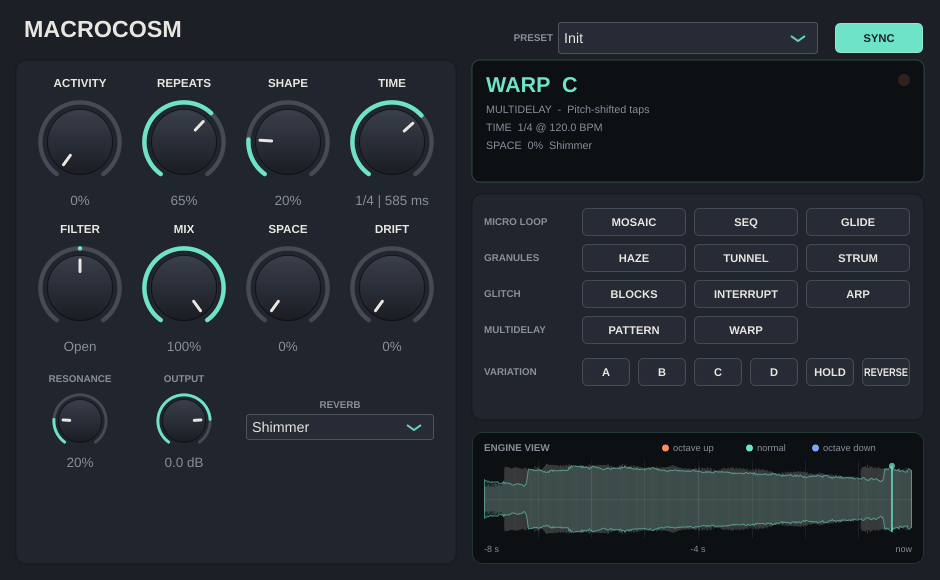
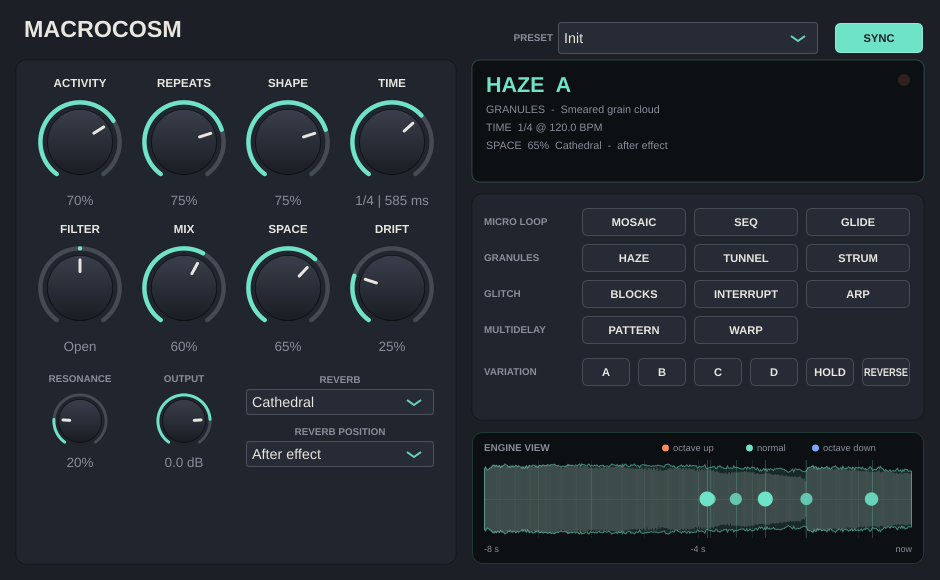
Add a Reverb Position selector: after, before, or effect only
SPACE could only sit after the mix. A new Reverb Position parameter
places it after the effect (default, unchanged), before it (the engine
works on the reverberated guitar, for dense, smooth pads), or on the
effect only (the dry guitar stays dry).

Two presets show the new positions: Cloud Choir (Haze from a Cathedral
wash) and Clean Halo (Warp C with a Shimmer halo, dry left dry). The top
display shows the position, and the screenshot is updated.

Tests: Effect only at Mix 0% leaves the dry untouched with Space at 80%,
and every position stays finite and bounded.

Claude-Session: https://claude.ai/code/session_01UYkrLVZjx8ufDwy96hkhs7

diff --git a/Source/dsp/MicrocosmDsp.h b/Source/dsp/MicrocosmDsp.h
@@ -11,9 +11,21 @@ namespace mc
 //   in ─┬──────────────────────────────── dry ──┐
 //       │                                        ├─ MIX ─ SPACE ─ OUTPUT ─ out
 //       └─ ENGINE (11 algos) ─ DRIFT ─ FILTER ─ wet ┘
+//
+// SPACE (the reverb) can sit after the mix (default), before the effect (the
+// engine then works on the reverberated signal), or on the effect only (the
+// dry guitar stays dry).
 class MicrocosmDsp
 {
 public:
+    enum ReverbPosition { ReverbAfter = 0, ReverbBefore, ReverbEffectOnly, NumReverbPositions };
+
+    static const char* reverbPositionName (int p)
+    {
+        static const char* names[NumReverbPositions] = { "After effect", "Before effect", "Effect only" };
+        return names[std::min (std::max (p, 0), NumReverbPositions - 1)];
+    }
+
     struct Global
     {
         float filter = 0.5f;     // 0 = dark LP, 0.5 = open, 1 = thin HP
@@ -21,6 +33,7 @@ public:
         float mix = 0.5f;        // 0 dry .. 1 wet
         float space = 0.25f;     // reverb amount
         int reverbMode = Reverb::LargeHall;
+        int reverbPosition = ReverbAfter;
         float drift = 0.0f;      // tape wow/flutter on the effect signal
         float outputGain = 1.0f; // linear
     };
@@ -91,6 +104,12 @@ private:
         std::copy (L, L + n, dl);
         std::copy (R, R + n, dr);
 
+        // Reverb before the effect: both the dry path and the engine get the
+        // reverberated guitar.
+        if (g.reverbPosition == ReverbBefore)
+            for (int i = 0; i < n; ++i)
+                applySpace (dl[i], dr[i]);
+
         // 1. Effect engine
         engine.process (dl, dr, wetL.data(), wetR.data(), duck.data(), n);
 
@@ -121,6 +140,9 @@ private:
                 wr = svf[1].process (wr, type);
             }
 
+            if (g.reverbPosition == ReverbEffectOnly)
+                applySpace (wl, wr);
+
             const float m = mixS.process (g.mix);
             const float wetGain = std::min (1.0f, 2.0f * m);
             // INTERRUPT mutes the dry while its bursts play, but only as far as
@@ -129,20 +151,28 @@ private:
             float ol = dl[i] * dryGain + wl * wetGain;
             float orr = dr[i] * dryGain + wr * wetGain;
 
-            const float s = spaceS.process (g.space);
-            if (s > 0.0005f || reverbTail > 0)
-            {
-                float rl, rr;
-                reverb.process (ol * s, orr * s, rl, rr);
-                const float dryKeep = 1.0f - 0.3f * s;
-                ol = ol * dryKeep + rl * 1.2f;
-                orr = orr * dryKeep + rr * 1.2f;
-                reverbTail = s > 0.0005f ? (int) (20.0f * sr) : reverbTail - 1;
-            }
+            if (g.reverbPosition == ReverbAfter)
+                applySpace (ol, orr);
 
             const float og = outS.process (g.outputGain);
             L[i] = sanitize (ol * og);
             R[i] = sanitize (orr * og);
+        }
+    }
+
+    // SPACE: blends the reverb into the signal in place (one call per sample,
+    // at whichever point of the chain the reverb sits).
+    void applySpace (float& l, float& r)
+    {
+        const float s = spaceS.process (g.space);
+        if (s > 0.0005f || reverbTail > 0)
+        {
+            float rl, rr;
+            reverb.process (l * s, r * s, rl, rr);
+            const float dryKeep = 1.0f - 0.3f * s;
+            l = l * dryKeep + rl * 1.2f;
+            r = r * dryKeep + rr * 1.2f;
+            reverbTail = s > 0.0005f ? (int) (20.0f * sr) : reverbTail - 1;
         }
     }
 

diff --git a/tests/DspTest.cpp b/tests/DspTest.cpp
@@ -281,6 +281,7 @@ int main()
             g.space = pr.space;
             g.reverbMode = pr.reverbMode;
             g.drift = pr.drift;
+            g.reverbPosition = pr.reverbPosition;
             dsp.setGlobal (g);
             Engine::Params p;
             p.algo = pr.algo;
@@ -505,6 +506,42 @@ int main()
         {
             ++failures;
             std::printf ("mix 0%% %s: dry changed by %.2f dB  <-- FAIL\n", Engine::algoName (a), diffDb);
+        }
+    }
+
+    // Reverb position: "Effect only" must leave the dry untouched at Mix 0%
+    // even with Space up, and every position must stay finite and bounded.
+    for (int pos = 0; pos < MicrocosmDsp::NumReverbPositions; ++pos)
+    {
+        for (float mixV : { 0.0f, 0.5f, 1.0f })
+        {
+            MicrocosmDsp dsp;
+            dsp.prepare (kSr, kBlock);
+            MicrocosmDsp::Global g;
+            g.mix = mixV;
+            g.space = 0.8f;
+            g.reverbMode = Reverb::Shimmer;
+            g.reverbPosition = pos;
+            dsp.setGlobal (g);
+            Engine::Params p;
+            p.algo = Engine::Haze;
+            dsp.setEngineParams (p);
+            std::vector<float> l (inL.begin(), inL.begin() + (int) kSr * 4), r (inR.begin(), inR.begin() + (int) kSr * 4);
+            const auto st = run (dsp, l, r);
+            bool ok = st.finite && st.peak < 3.9f && st.rms > 0.005f;
+            if (pos == MicrocosmDsp::ReverbEffectOnly && mixV == 0.0f)
+            {
+                double eIn = 0;
+                for (int k = 0; k < (int) kSr * 4; ++k)
+                    eIn += (double) inL[(size_t) k] * inL[(size_t) k];
+                ok = ok && std::abs (20.0f * std::log10 (st.rms / (float) std::sqrt (eIn / (kSr * 4)))) < 0.1f;
+            }
+            if (! ok)
+            {
+                ++failures;
+                std::printf ("reverb position %s, mix %.0f%%: rms=%.4f peak=%.2f  <-- FAIL\n",
+                             MicrocosmDsp::reverbPositionName (pos), mixV * 100.0f, st.rms, st.peak);
+            }
         }
     }
 

diff --git a/Source/PluginEditor.cpp b/Source/PluginEditor.cpp
@@ -107,6 +107,7 @@ MicrocosmEditor::MicrocosmEditor (MicrocosmProcessor& p) : AudioProcessorEditor 
         addAndMakeVisible (label);
     };
     setupCombo (reverbMode, reverbLabel, ParamIDs::reverbMode, "REVERB", reverbAtt);
+    setupCombo (reverbPosition, reverbPosLabel, ParamIDs::reverbPos, "REVERB POSITION", reverbPosAtt);
 
     setupToggle (syncBtn, syncAtt, ParamIDs::sync, "SYNC");
 
@@ -280,7 +281,10 @@ void MicrocosmEditor::paint (Graphics& g)
     // reverb readout
     const int mode = (int) proc.apvts.getRawParameterValue (ParamIDs::reverbMode)->load();
     const int spacePct = roundToInt (proc.apvts.getRawParameterValue (ParamIDs::space)->load() * 100.0f);
-    g.drawText ("SPACE  " + String (spacePct) + "%  " + mc::Reverb::modeName (mode), inner.removeFromTop (18),
+    const int position = (int) proc.apvts.getRawParameterValue (ParamIDs::reverbPos)->load();
+    g.drawText ("SPACE  " + String (spacePct) + "%  " + mc::Reverb::modeName (mode) + "  -  "
+                    + String (mc::MicrocosmDsp::reverbPositionName (position)).toLowerCase(),
+                inner.removeFromTop (18),
                 Justification::centredLeft);
 
     // onset LED
@@ -330,9 +334,12 @@ void MicrocosmEditor::resized()
     auto row3 = l.removeFromTop (104);
     for (auto* k : { &resonance, &output })
         layoutKnob (*k, row3.removeFromLeft (kw).reduced (12, 2));
-    auto reverbBox = row3.reduced (10, 0).withSizeKeepingCentre (row3.getWidth() - 20, 48);
+    auto reverbBox = row3.reduced (10, 0).withSizeKeepingCentre (row3.getWidth() - 20, 98);
     reverbLabel.setBounds (reverbBox.removeFromTop (18));
     reverbMode.setBounds (reverbBox.removeFromTop (26));
+    reverbBox.removeFromTop (8);
+    reverbPosLabel.setBounds (reverbBox.removeFromTop (18));
+    reverbPosition.setBounds (reverbBox.removeFromTop (26));
 
     // ---- right: display ----
     displayArea = right.removeFromTop (122);

diff --git a/Source/Presets.h b/Source/Presets.h
@@ -1,7 +1,6 @@
 #pragma once
 
-#include "dsp/Engine.h"
-#include "dsp/Reverb.h"
+#include "dsp/MicrocosmDsp.h"
 
 // Factory presets: cinematic starting points for guitar. Each sets the
 // effect and sound-shaping controls; the looper is left alone.
@@ -17,6 +16,7 @@ struct Preset
     int reverbMode;
     float drift;
     bool reverse;
+    int reverbPosition = mc::MicrocosmDsp::ReverbAfter;
 };
 
 // Filter knob positions for a given readout ("HP 35%" -> hp (0.35f)).
@@ -26,6 +26,8 @@ constexpr float open = 0.5f;
 
 using E = mc::Engine;
 using R = mc::Reverb;
+constexpr int before = mc::MicrocosmDsp::ReverbBefore;
+constexpr int effectOnly = mc::MicrocosmDsp::ReverbEffectOnly;
 
 inline const Preset list[] = {
     // name                 algo         var  act    rep    shape  time filter     res    mix    space  reverb        drift  rev
@@ -41,6 +43,10 @@ inline const Preset list[] = {
     { "Crystal Arp",        E::Arp,       1, 0.50f, 0.60f, 0.40f, 6, hp (0.30f), 0.15f, 0.45f, 0.60f, R::Shimmer,   0.10f, false },
     { "Distant Signal",     E::Blocks,    2, 0.50f, 0.50f, 0.70f, 8, lp (0.25f), 0.30f, 0.50f, 0.70f, R::Ambient,   0.50f, false },
     { "Infinite Pad",       E::Tunnel,    0, 0.60f, 1.00f, 1.00f, 9, open,      0.10f, 0.70f, 0.90f, R::Shimmer,   0.30f, false },
+    // Reverb before the effect: grains drawn from a reverb wash.
+    { "Cloud Choir",        E::Haze,      0, 0.70f, 0.75f, 0.75f, 6, lp (0.10f), 0.10f, 0.70f, 0.60f, R::Cathedral, 0.25f, false, before },
+    // Reverb on the effect only: dry guitar stays clear in front of a shimmer halo.
+    { "Clean Halo",         E::Warp,      2, 0.00f, 0.60f, 0.60f, 9, hp (0.35f), 0.15f, 0.50f, 0.85f, R::Shimmer,   0.15f, false, effectOnly },
 };
 
 inline constexpr int count = (int) (sizeof (list) / sizeof (list[0]));

diff --git a/Source/PluginProcessor.cpp b/Source/PluginProcessor.cpp
@@ -12,7 +12,8 @@ MicrocosmProcessor::MicrocosmProcessor()
     raw = { p (ParamIDs::algo), p (ParamIDs::variation), p (ParamIDs::activity), p (ParamIDs::repeats),
             p (ParamIDs::shape), p (ParamIDs::time), p (ParamIDs::sync), p (ParamIDs::filter),
             p (ParamIDs::resonance), p (ParamIDs::mix), p (ParamIDs::space), p (ParamIDs::reverbMode),
-            p (ParamIDs::hold), p (ParamIDs::fxReverse), p (ParamIDs::output), p (ParamIDs::drift) };
+            p (ParamIDs::hold), p (ParamIDs::fxReverse), p (ParamIDs::output), p (ParamIDs::drift),
+            p (ParamIDs::reverbPos) };
 }
 
 bool MicrocosmProcessor::isBusesLayoutSupported (const BusesLayout& layouts) const
@@ -174,6 +175,7 @@ void MicrocosmProcessor::processBlock (juce::AudioBuffer<float>& buffer, juce::M
     g.mix = raw.mix->load();
     g.space = raw.space->load();
     g.reverbMode = (int) raw.reverbMode->load();
+    g.reverbPosition = (int) raw.reverbPos->load();
     g.drift = raw.drift->load();
     g.outputGain = juce::Decibels::decibelsToGain (raw.output->load());
     dsp.setGlobal (g);
@@ -244,6 +246,7 @@ void MicrocosmProcessor::setCurrentProgram (int index)
     set (ParamIDs::mix, pr.mix);
     set (ParamIDs::space, pr.space);
     set (ParamIDs::reverbMode, (float) pr.reverbMode);
+    set (ParamIDs::reverbPos, (float) pr.reverbPosition);
     set (ParamIDs::drift, pr.drift);
     set (ParamIDs::fxReverse, pr.reverse ? 1.0f : 0.0f);
     set (ParamIDs::hold, 0.0f);

diff --git a/Source/Parameters.h b/Source/Parameters.h
@@ -2,7 +2,7 @@
 
 #include <juce_audio_processors/juce_audio_processors.h>
 #include "dsp/Engine.h"
-#include "dsp/Reverb.h"
+#include "dsp/MicrocosmDsp.h"
 
 namespace ParamIDs
 {
@@ -22,6 +22,7 @@ inline constexpr const char* hold         = "hold";
 inline constexpr const char* fxReverse    = "fxReverse";
 inline constexpr const char* output       = "output";
 inline constexpr const char* drift        = "drift";
+inline constexpr const char* reverbPos    = "reverbPosition";
 } // namespace ParamIDs
 
 namespace TimeMapping
@@ -100,6 +101,11 @@ inline juce::AudioProcessorValueTreeState::ParameterLayout createParameterLayout
     for (int i = 0; i < mc::Reverb::NumModes; ++i)
         modes.add (mc::Reverb::modeName (i));
     layout.add (std::make_unique<AudioParameterChoice> (ParameterID { ParamIDs::reverbMode, 1 }, "Reverb Mode", modes, 2));
+
+    StringArray positions;
+    for (int i = 0; i < mc::MicrocosmDsp::NumReverbPositions; ++i)
+        positions.add (mc::MicrocosmDsp::reverbPositionName (i));
+    layout.add (std::make_unique<AudioParameterChoice> (ParameterID { ParamIDs::reverbPos, 1 }, "Reverb Position", positions, 0));
 
     layout.add (std::make_unique<AudioParameterBool> (ParameterID { ParamIDs::hold, 1 }, "Hold", false));
     layout.add (std::make_unique<AudioParameterBool> (ParameterID { ParamIDs::fxReverse, 1 }, "FX Reverse", false));

diff --git a/Source/PluginEditor.h b/Source/PluginEditor.h
@@ -73,9 +73,9 @@ private:
     juce::ComboBox presetBox;
     juce::Label presetLabel;
 
-    juce::ComboBox reverbMode;
-    juce::Label reverbLabel;
-    std::unique_ptr<ComboAttachment> reverbAtt;
+    juce::ComboBox reverbMode, reverbPosition;
+    juce::Label reverbLabel, reverbPosLabel;
+    std::unique_ptr<ComboAttachment> reverbAtt, reverbPosAtt;
 
     juce::TextButton syncBtn, holdBtn, reverseBtn;
     std::unique_ptr<ButtonAttachment> syncAtt, holdAtt, reverseAtt;

diff --git a/Source/PluginProcessor.h b/Source/PluginProcessor.h
@@ -84,7 +84,7 @@ private:
         std::atomic<float>* filter; std::atomic<float>* resonance; std::atomic<float>* mix;
         std::atomic<float>* space; std::atomic<float>* reverbMode;
         std::atomic<float>* hold; std::atomic<float>* fxReverse; std::atomic<float>* output;
-        std::atomic<float>* drift;
+        std::atomic<float>* drift; std::atomic<float>* reverbPos;
     } raw {};
 
     JUCE_DECLARE_NON_COPYABLE_WITH_LEAK_DETECTOR (MicrocosmProcessor)

diff --git a/README.md b/README.md
@@ -58,6 +58,7 @@ Strum, Arp and Tunnel react to note onsets in your playing. A detector picks up 
 | **Filter** | Centre is open. Left is a low-pass, right is a high-pass. **Resonance** sets the peak. Applies to the effect only. |
 | **Mix** | Dry/wet. At the centre both are at full level, as on the pedal. |
 | **Space** | Reverb amount. **Reverb** mode: Bright Room, Dark Medium, Large Hall, Ambient, plus **Shimmer** (octave-up pitch shifting inside the reverb, so the tail keeps rising) and **Cathedral** (huge and long). |
+| **Reverb Position** | Where Space sits: **After effect** (guitar and effect share one space), **Before effect** (the effect works on the reverberated guitar, giving dense, smooth pads), or **Effect only** (your dry guitar stays dry and clear while the textures sit in the space). |
 | **Drift** | Tape-style wow, flutter and slow pitch wander on the effect, slightly different per side. Around 15–40% gives gentle movement; higher gives lo-fi warble. |
 | **Hold** | Freezes the audio the effect is working on, so it keeps generating from what you just played while you play over it. In the delays it becomes an infinite repeat. |
 | **Reverse** | Plays every loop, grain and tap backwards. |
@@ -67,7 +68,7 @@ Strum, Arp and Tunnel react to note onsets in your playing. A detector picks up 
 
 Pick these from the **Preset** menu at the top of the plugin, or from Live's program list. They're cinematic starting points for guitar:
 Shimmer Cathedral, Frozen Swell, Reverse Bloom, Granular Choir, Tape Memory, Octave Clouds, Rising Tide, Ghost Echoes,
-Crystal Arp, Distant Signal and Infinite Pad. Choosing one sets the effect and sound controls.
+Crystal Arp, Distant Signal, Infinite Pad, Cloud Choir (reverb before the effect) and Clean Halo (reverb on the effect only). Choosing one sets the effect and sound controls.
 
 ### Sound quality notes
 

diff --git a/docs/RELEASE_NOTES.md b/docs/RELEASE_NOTES.md
@@ -21,10 +21,11 @@ Macrocosm is a granular, micro-loop, glitch and multidelay effect, inspired by t
   - Multidelay: Pattern, Warp
 - **Main controls:** Activity, Repeats and Shape, plus Time, which follows Live's tempo or can run free.
 - **Filter, Mix and Space**, with six reverbs: Bright Room, Dark Medium, Large Hall, Ambient, **Shimmer** and **Cathedral**.
+- **Reverb Position:** after the effect, before it (the effect chops up the reverb wash) or on the effect only (dry guitar stays dry).
 - **Drift:** tape-style wow and flutter on the effect sound.
 - **Hold** (freeze) and **Reverse**.
 - **Engine View:** a live display of your playing, the effect output, every active loop and grain (by position, pitch and level) and the delay taps.
-- **12 factory presets**, including Shimmer Cathedral, Frozen Swell, Reverse Bloom, Granular Choir and Infinite Pad.
+- **14 factory presets**, including Shimmer Cathedral, Frozen Swell, Reverse Bloom, Infinite Pad, Cloud Choir and Clean Halo.
 - **Clean octave-up:**
   - Band-limited playback means pitched-up loops and grains don't alias.
   - A waveform-aligned pitch shifter keeps sustained notes clean in Warp and Shimmer.
